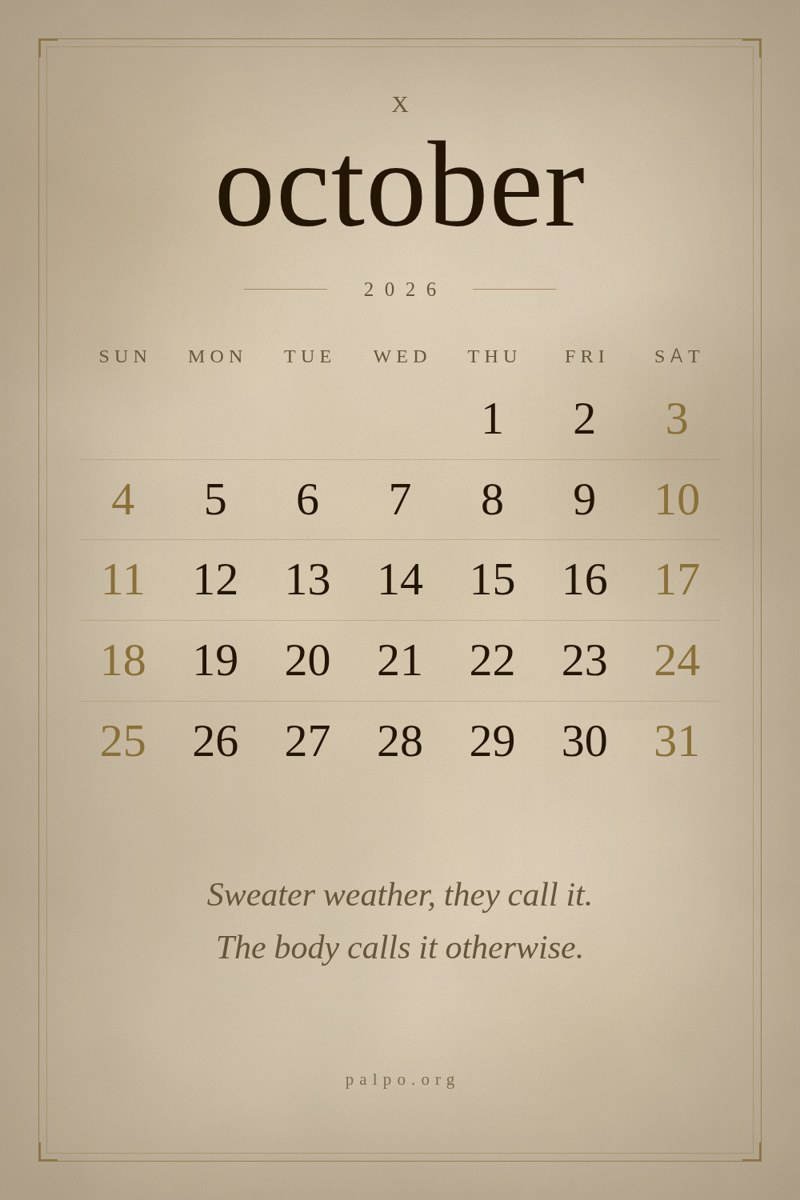
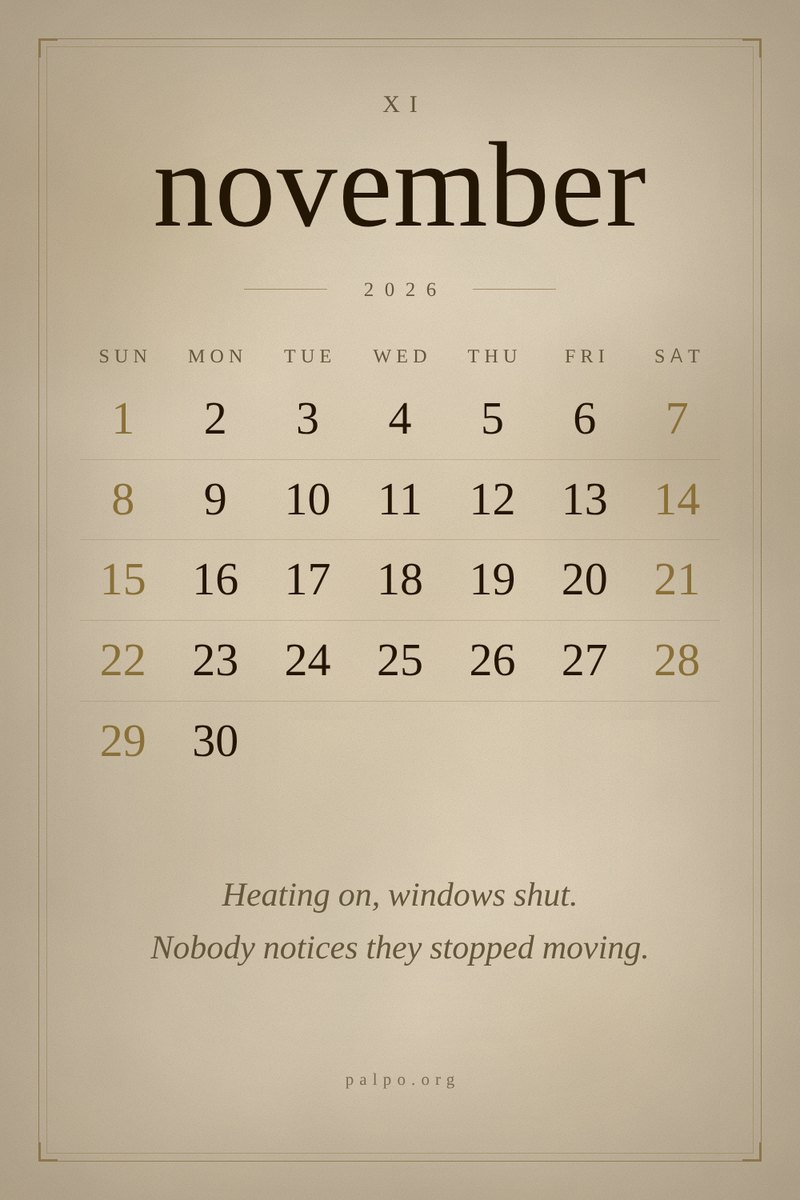
Add files via upload

diff --git a/index.html b/index.html
@@ -1122,7 +1122,7 @@
         <a class="door-name" href="/humor.html" data-goal="door_humor">Открытки и мемы</a>
         <span class="door-text">Ко дню рождения, для двоих, просто посмеяться.</span>
         <span class="door-free">Скачать бесплатно</span>
-        <div class="free-view"><div class="free-track"><a class="free-item" href="/#calendar"><img src="calendar-preview.jpg" alt="Календарь-обои на октябрь" width="72" height="108" decoding="async"><span>обои</span></a><a class="free-item" href="humor.html#otkrytka-den-rozhdeniya-ded-dohrenaletie"><img src="otkrytka-den-rozhdeniya-ded-dohrenaletie-480.webp" alt="С днём твоего дохреналетия" width="72" height="108" decoding="async"><span>открытка</span></a><a class="free-item" href="humor.html#mem-kot-luchshiy-massazh-v-zhizni"><img src="mem-kot-luchshiy-massazh-v-zhizni-480.webp" alt="Как получить лучший массаж в жизни" width="72" height="108" decoding="async"><span>мем</span></a><a class="free-item" href="humor.html#otkrytka-dlya-dvoih-s-tebya-ustalost"><img src="otkrytka-dlya-dvoih-s-tebya-ustalost-480.webp" alt="С тебя — усталость, с меня — массаж" width="72" height="108" decoding="async"><span>открытка</span></a><a class="free-item" href="humor.html#otkrytka-den-rozhdeniya-fenek-poyasnitsa"><img src="otkrytka-den-rozhdeniya-fenek-poyasnitsa-480.webp" alt="Поясница выходит из чата" width="72" height="108" decoding="async"><span>открытка</span></a><a class="free-item" href="humor.html#mem-akciya-kupi-tretiy"><img src="mem-akciya-kupi-tretiy-480.webp" alt="Купи два массажа и третий тоже купи" width="72" height="108" decoding="async"><span>мем</span></a><a class="free-item" href="humor.html#otkrytka-den-rozhdeniya-volk-klub-lyagu-v-desyat"><img src="otkrytka-den-rozhdeniya-volk-klub-lyagu-v-desyat-480.webp" alt="Клуб «Я ещё лягу в десять»" width="72" height="108" decoding="async"><span>открытка</span></a><a class="free-item" href="/#calendar" aria-hidden="true" tabindex="-1"><img src="calendar-preview.jpg" alt="" width="72" height="108" decoding="async"><span>обои</span></a><a class="free-item" href="humor.html#otkrytka-den-rozhdeniya-ded-dohrenaletie" aria-hidden="true" tabindex="-1"><img src="otkrytka-den-rozhdeniya-ded-dohrenaletie-480.webp" alt="" width="72" height="108" decoding="async"><span>открытка</span></a><a class="free-item" href="humor.html#mem-kot-luchshiy-massazh-v-zhizni" aria-hidden="true" tabindex="-1"><img src="mem-kot-luchshiy-massazh-v-zhizni-480.webp" alt="" width="72" height="108" decoding="async"><span>мем</span></a><a class="free-item" href="humor.html#otkrytka-dlya-dvoih-s-tebya-ustalost" aria-hidden="true" tabindex="-1"><img src="otkrytka-dlya-dvoih-s-tebya-ustalost-480.webp" alt="" width="72" height="108" decoding="async"><span>открытка</span></a><a class="free-item" href="humor.html#otkrytka-den-rozhdeniya-fenek-poyasnitsa" aria-hidden="true" tabindex="-1"><img src="otkrytka-den-rozhdeniya-fenek-poyasnitsa-480.webp" alt="" width="72" height="108" decoding="async"><span>открытка</span></a><a class="free-item" href="humor.html#mem-akciya-kupi-tretiy" aria-hidden="true" tabindex="-1"><img src="mem-akciya-kupi-tretiy-480.webp" alt="" width="72" height="108" decoding="async"><span>мем</span></a><a class="free-item" href="humor.html#otkrytka-den-rozhdeniya-volk-klub-lyagu-v-desyat" aria-hidden="true" tabindex="-1"><img src="otkrytka-den-rozhdeniya-volk-klub-lyagu-v-desyat-480.webp" alt="" width="72" height="108" decoding="async"><span>открытка</span></a></div></div>
+        <div class="free-view"><div class="free-track"><a class="free-item" href="/#calendar"><img src="calendar-preview.jpg" alt="Календарь-обои на ноябрь" width="72" height="108" decoding="async"><span>обои</span></a><a class="free-item" href="humor.html#otkrytka-den-rozhdeniya-ded-dohrenaletie"><img src="otkrytka-den-rozhdeniya-ded-dohrenaletie-480.webp" alt="С днём твоего дохреналетия" width="72" height="108" decoding="async"><span>открытка</span></a><a class="free-item" href="humor.html#mem-kot-luchshiy-massazh-v-zhizni"><img src="mem-kot-luchshiy-massazh-v-zhizni-480.webp" alt="Как получить лучший массаж в жизни" width="72" height="108" decoding="async"><span>мем</span></a><a class="free-item" href="humor.html#otkrytka-dlya-dvoih-s-tebya-ustalost"><img src="otkrytka-dlya-dvoih-s-tebya-ustalost-480.webp" alt="С тебя — усталость, с меня — массаж" width="72" height="108" decoding="async"><span>открытка</span></a><a class="free-item" href="humor.html#otkrytka-den-rozhdeniya-fenek-poyasnitsa"><img src="otkrytka-den-rozhdeniya-fenek-poyasnitsa-480.webp" alt="Поясница выходит из чата" width="72" height="108" decoding="async"><span>открытка</span></a><a class="free-item" href="humor.html#mem-akciya-kupi-tretiy"><img src="mem-akciya-kupi-tretiy-480.webp" alt="Купи два массажа и третий тоже купи" width="72" height="108" decoding="async"><span>мем</span></a><a class="free-item" href="humor.html#otkrytka-den-rozhdeniya-volk-klub-lyagu-v-desyat"><img src="otkrytka-den-rozhdeniya-volk-klub-lyagu-v-desyat-480.webp" alt="Клуб «Я ещё лягу в десять»" width="72" height="108" decoding="async"><span>открытка</span></a><a class="free-item" href="/#calendar" aria-hidden="true" tabindex="-1"><img src="calendar-preview.jpg" alt="" width="72" height="108" decoding="async"><span>обои</span></a><a class="free-item" href="humor.html#otkrytka-den-rozhdeniya-ded-dohrenaletie" aria-hidden="true" tabindex="-1"><img src="otkrytka-den-rozhdeniya-ded-dohrenaletie-480.webp" alt="" width="72" height="108" decoding="async"><span>открытка</span></a><a class="free-item" href="humor.html#mem-kot-luchshiy-massazh-v-zhizni" aria-hidden="true" tabindex="-1"><img src="mem-kot-luchshiy-massazh-v-zhizni-480.webp" alt="" width="72" height="108" decoding="async"><span>мем</span></a><a class="free-item" href="humor.html#otkrytka-dlya-dvoih-s-tebya-ustalost" aria-hidden="true" tabindex="-1"><img src="otkrytka-dlya-dvoih-s-tebya-ustalost-480.webp" alt="" width="72" height="108" decoding="async"><span>открытка</span></a><a class="free-item" href="humor.html#otkrytka-den-rozhdeniya-fenek-poyasnitsa" aria-hidden="true" tabindex="-1"><img src="otkrytka-den-rozhdeniya-fenek-poyasnitsa-480.webp" alt="" width="72" height="108" decoding="async"><span>открытка</span></a><a class="free-item" href="humor.html#mem-akciya-kupi-tretiy" aria-hidden="true" tabindex="-1"><img src="mem-akciya-kupi-tretiy-480.webp" alt="" width="72" height="108" decoding="async"><span>мем</span></a><a class="free-item" href="humor.html#otkrytka-den-rozhdeniya-volk-klub-lyagu-v-desyat" aria-hidden="true" tabindex="-1"><img src="otkrytka-den-rozhdeniya-volk-klub-lyagu-v-desyat-480.webp" alt="" width="72" height="108" decoding="async"><span>открытка</span></a></div></div>
       </div>
       <div class="door">
         <a class="door-name" href="#atlas" data-goal="door_atlas">Как помочь себе самому</a>
@@ -1628,7 +1628,7 @@
   <div class="wrap">
     <div class="cal-wrap">
       <div class="cal-preview reveal">
-        <img src="calendar-preview.jpg" alt="Календарь-обои на октябрь 2026, светлая версия" loading="lazy" onerror="this.parentNode.style.display='none'">
+        <img src="calendar-preview.jpg" alt="Календарь-обои на ноябрь 2026, светлая версия" loading="lazy" onerror="this.parentNode.style.display='none'">
       </div>
       <div class="cal-head reveal">
         <span class="section-eyebrow">Обои на месяц</span>
@@ -1637,8 +1637,10 @@
         <div class="cal-files">
           <a href="kalendar-oktyabr-2026-ru-light.png" download>Октябрь, светлый <span>PNG · 1290×2796</span></a>
           <a href="kalendar-oktyabr-2026-ru-dark.png" download>Октябрь, тёмный <span>PNG · 1290×2796</span></a>
-          <a href="calendar-october-2026-en-light.png" download>October, light <span>PNG · 1290×2796</span></a>
-          <a href="calendar-october-2026-en-dark.png" download>October, dark <span>PNG · 1290×2796</span></a>
+          <a href="kalendar-noyabr-2026-ru-light.png" download>Ноябрь, светлый <span>PNG · 1290×2796</span></a>
+          <a href="kalendar-noyabr-2026-ru-dark.png" download>Ноябрь, тёмный <span>PNG · 1290×2796</span></a>
+          <a href="kalendar-dekabr-2026-ru-light.png" download>Декабрь, светлый <span>PNG · 1290×2796</span></a>
+          <a href="kalendar-dekabr-2026-ru-dark.png" download>Декабрь, тёмный <span>PNG · 1290×2796</span></a>
         </div>
         <p class="cal-note">Следующий месяц появляется здесь заранее.</p>
       </div>

diff --git a/en.html b/en.html
@@ -1289,7 +1289,7 @@
   <div class="wrap">
     <div class="cal-wrap">
       <div class="cal-preview reveal">
-        <img src="calendar-preview-en.jpg" alt="Wallpaper calendar for October 2026, light version" loading="lazy" onerror="this.parentNode.style.display='none'">
+        <img src="calendar-preview-en.jpg" alt="Wallpaper calendar for November 2026, light version" loading="lazy" onerror="this.parentNode.style.display='none'">
       </div>
       <div class="cal-head reveal">
         <span class="section-eyebrow">Wallpaper for the month</span>
@@ -1298,6 +1298,10 @@
         <div class="cal-files">
           <a href="calendar-october-2026-en-light.png" download>October, light <span>PNG · 1290×2796</span></a>
           <a href="calendar-october-2026-en-dark.png" download>October, dark <span>PNG · 1290×2796</span></a>
+          <a href="calendar-november-2026-en-light.png" download>November, light <span>PNG · 1290×2796</span></a>
+          <a href="calendar-november-2026-en-dark.png" download>November, dark <span>PNG · 1290×2796</span></a>
+          <a href="calendar-december-2026-en-light.png" download>December, light <span>PNG · 1290×2796</span></a>
+          <a href="calendar-december-2026-en-dark.png" download>December, dark <span>PNG · 1290×2796</span></a>
         </div>
         <p class="cal-note">The next month appears here in advance.</p>
       </div>
